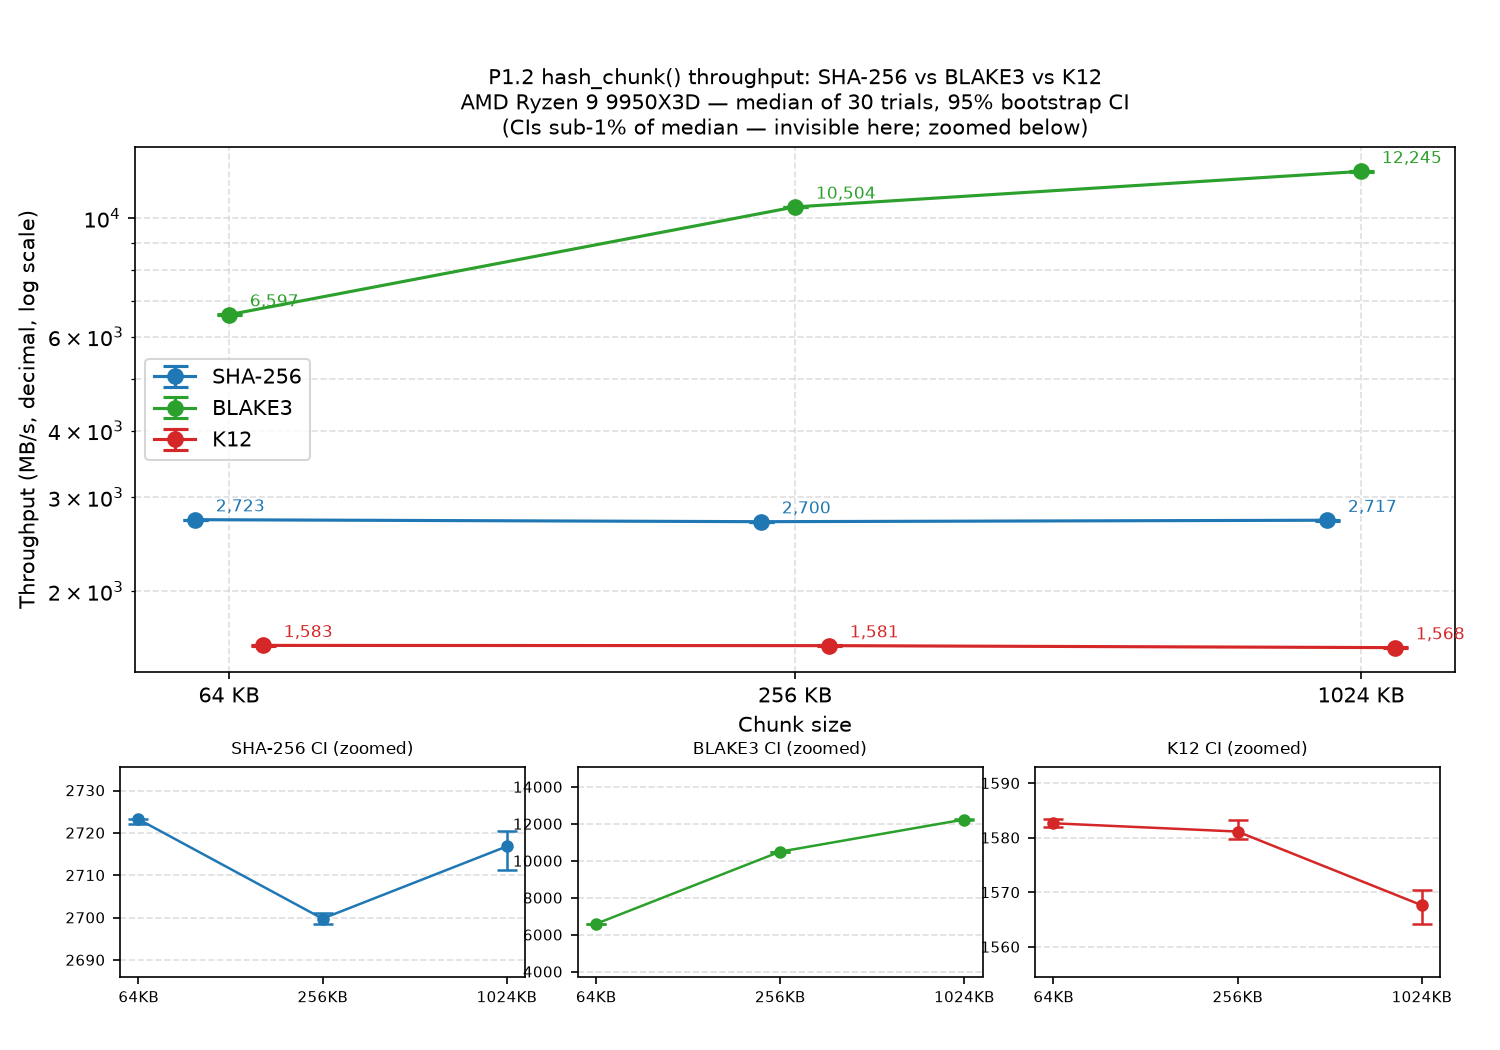
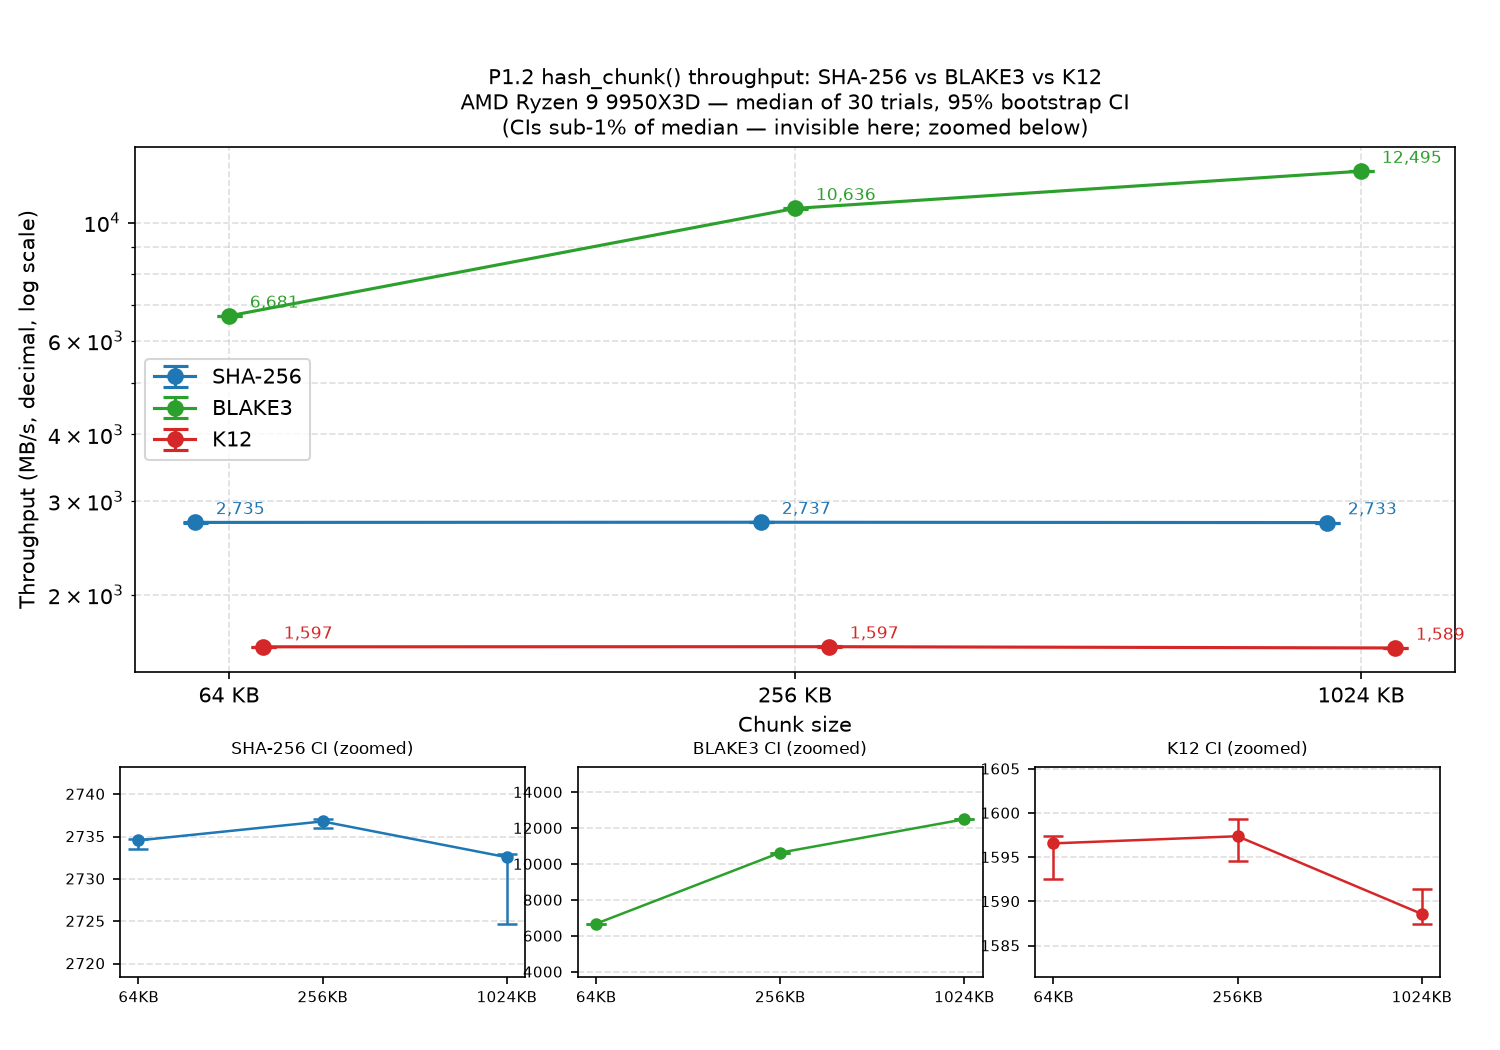
Capture raw per-trial hash-bench samples and plot min/max/IQR spread
The harness now writes a raw-trials sidecar CSV alongside the
spec-mandated summary CSV, enabling a separate plot
(plot_hash_throughput_spread.png) showing actual min/max and IQR
spread per algorithm/chunk-size cell, distinct from the bootstrap CI
on the median shown in the main plot. Rerunning the harness to capture
this also refreshed the summary CSV/plot with new measurements;
explanatory note updated accordingly.

diff --git a/crates/clawhdf5-format/examples/hash_bench_harness.rs b/crates/clawhdf5-format/examples/hash_bench_harness.rs
@@ -174,6 +174,10 @@ struct Row {
     throughput_mbs: f64,
     ci95_low: f64,
     ci95_high: f64,
+    /// All 30 measured per-trial throughputs, kept alongside the summary
+    /// row so callers can also report raw spread (min/max/IQR) — not part
+    /// of the spec-mandated CSV columns, written to a separate sidecar file.
+    raw_samples: Vec<f64>,
 }
 
 fn bench_alg_size(alg: HashAlg, alg_name: &'static str, chunk_kb: usize, seed: u64) -> Row {
@@ -201,6 +205,7 @@ fn bench_alg_size(alg: HashAlg, alg_name: &'static str, chunk_kb: usize, seed: u
         throughput_mbs: med,
         ci95_low: lo,
         ci95_high: hi,
+        raw_samples: throughputs_mbs,
     }
 }
 
@@ -259,9 +264,30 @@ fn main() -> Result<(), Box<dyn std::error::Error>> {
     }
     fs::write(&out_path, csv)?;
 
+    let raw_out_path = format!("{results_dir}/hash-bench-raw-trials-{host}.csv");
+    let mut raw_csv = format!(
+        "# hostname={host} cpu_model=\"{cpu}\" ram_gb={:.1} date={}\n",
+        ram_gb(),
+        now_utc_iso()
+    );
+    raw_csv.push_str("alg,chunk_size_kb,trial,throughput_mbs\n");
+    for r in &rows {
+        for (i, sample) in r.raw_samples.iter().enumerate() {
+            raw_csv.push_str(&format!(
+                "{},{},{},{}\n",
+                csv_field(r.alg),
+                r.chunk_size_kb,
+                i,
+                sample,
+            ));
+        }
+    }
+    fs::write(&raw_out_path, raw_csv)?;
+
     println!();
     println!("Wrote {} rows to {out_path}", rows.len());
-    println!("Note: benches/results/ is gitignored — `git add -f` this file if you intend to commit it as a P1.2 artifact.");
+    println!("Wrote raw per-trial samples to {raw_out_path}");
+    println!("Note: benches/results/ is gitignored — `git add -f` these files if you intend to commit them as P1.2 artifacts.");
 
     Ok(())
 }

diff --git a/crates/clawhdf5-format/benches/results/hash-bench-explanatory-note-localhost.localdomain.md b/crates/clawhdf5-format/benches/results/hash-bench-explanatory-note-localhost.localdomain.md
@@ -1,7 +1,8 @@
 # P1.2 Hash Algorithm Benchmark — Explanatory Note
 
-This note accompanies `hash-bench-localhost.localdomain.csv`, per the S2-D2
-spec's "Benchmark validity and interpretation" requirement (p.52): every
+This note accompanies `hash-bench-localhost.localdomain.csv` and
+`hash-bench-raw-trials-localhost.localdomain.csv`, per the S2-D2 spec's
+"Benchmark validity and interpretation" requirement (p.52): every
 benchmark artifact needs a reproducible explanatory note covering exact
 reproduction steps, hardware, what is measured, how to read the results,
 and a root-cause explanation of any notable trend or anomaly.
@@ -49,30 +50,48 @@ critical path, not a standalone copy of the algorithm.
 
 ## How to read the plot
 
-`plot_hash_throughput.png`: one main log-scale point+errorbar plot
-comparing all three algorithms across chunk sizes, plus three small
-zoomed-in inset panels below it (one per algorithm, each individually
-y-scaled) — the main plot's 95% CIs are too narrow to see at that shared
-scale, so each inset re-plots its algorithm's own CI on a tight axis
-range where the whiskers are actually visible.
+- `plot_hash_throughput.png`: one main log-scale point+errorbar plot
+  comparing all three algorithms across chunk sizes, plus three small
+  zoomed-in inset panels below it (one per algorithm, each individually
+  y-scaled) — the main plot's 95% CIs are too narrow to see at that shared
+  scale, so each inset re-plots its algorithm's own CI on a tight axis
+  range where the whiskers are actually visible.
+- `plot_hash_throughput_spread.png`: a separate plot, one panel per
+  algorithm, showing the **raw spread of the 30 measured trials** rather
+  than the bootstrap CI on the median: a thin whisker for min/max and a
+  thick band for the IQR (25th-75th percentile), with the median marked
+  as a dot. This is a different statistic than the CI plot above — see
+  "How to read the CSV" below for the distinction — and is generally much
+  wider, since it reflects trial-to-trial variability directly rather than
+  uncertainty in the median estimate.
 
 ## How to read the CSV
 
-Each row is one (algorithm, chunk size) cell: `throughput_mbs` is the
-**median of the 30 measured trials**, with `ci95_low`/`ci95_high` from a
-**95% bootstrap confidence interval** (2000 resamples) — never a bare mean,
-per the statistical protocol.
+`hash-bench-localhost.localdomain.csv` (the spec-mandated artifact): each
+row is one (algorithm, chunk size) cell, `throughput_mbs` is the **median
+of the 30 measured trials**, with `ci95_low`/`ci95_high` from a **95%
+bootstrap confidence interval** (2000 resamples) — never a bare mean, per
+the statistical protocol. This CI describes how much the *median* would
+plausibly vary if the 30-trial experiment were rerun, not how spread out
+the raw trials themselves were.
+
+`hash-bench-raw-trials-localhost.localdomain.csv` (supplementary, not a
+spec-mandated column set): one row per individual trial — `alg,
+chunk_size_kb, trial, throughput_mbs` — the same 30 raw measurements per
+cell that feed into the summary CSV's median/CI, kept around so the raw
+spread (min/max, IQR) can also be reported, e.g. in
+`plot_hash_throughput_spread.png`.
 
 ## Expected trends and whether the data matches
 
-- **BLAKE3 throughput increases with chunk size** (6.6 GB/s at 64 KB → 10.5
-  GB/s at 256 KB → 12.2 GB/s at 1 MB). Matches expectation: BLAKE3 processes
+- **BLAKE3 throughput increases with chunk size** (6.7 GB/s at 64 KB → 10.6
+  GB/s at 256 KB → 12.5 GB/s at 1 MB). Matches expectation: BLAKE3 processes
   input in parallel 1 KB-leaf lanes internally (SIMD-width dependent), so
   larger inputs better amortize per-call setup cost and expose more
   parallelism — consistent with RQ4's framing of BLAKE3 as the
   parallelism-oriented design.
 - **SHA-256 and K12 throughput are flat across chunk sizes** (SHA-256:
-  ~2.70–2.72 GB/s; K12: ~1.57–1.58 GB/s). Matches expectation for both:
+  ~2.73–2.74 GB/s; K12: ~1.59–1.60 GB/s). Matches expectation for both:
   neither this `sha2` usage nor `k12`'s sponge construction exploits
   cross-chunk-size parallelism the way BLAKE3's tree does, so per-byte cost
   is roughly constant once warmed up.
@@ -80,7 +99,7 @@ per the statistical protocol.
 ## Anomaly: SHA-256 is faster than K12, despite K12 being the
 "very fast" candidate
 
-At every chunk size, SHA-256 (~2.7 GB/s) outperforms K12 (~1.58 GB/s) by
+At every chunk size, SHA-256 (~2.7 GB/s) outperforms K12 (~1.6 GB/s) by
 ~1.7x — the opposite of §5.3's framing of K12 as a faster SHA-3-family
 alternative to SHA-256 for throughput-bound deployments.
 
@@ -122,10 +141,14 @@ hardware acceleration when available.)
 
 ## Observation: CI width (as % of median) grows with chunk size for SHA-256 and K12
 
-Within the committed 64/256/1024 KB cells, SHA-256's CI width goes
-0.04% → 0.15% → 0.71% of the median, and K12's goes ~0.05% → 0.14% → 0.31%
-— both widening as chunk size increases, even though the underlying
-algorithms are unchanged.
+Within the committed 64/256/1024 KB cells (most recent run), SHA-256's CI
+width is ~0.04% → 0.04% → 0.30% of the median, and K12's is ~0.31% →
+0.30% → 0.25%. The exact figures are noisy run-to-run (rerunning the
+harness for the spread plot above shifted them somewhat from an earlier
+run, where SHA-256 went 0.04% → 0.15% → 0.71%), but the broader pattern —
+SHA-256 and K12 having visibly wider CIs at 1024 KB than at 64 KB in most
+runs, all still comfortably sub-1% — motivated checking whether this is a
+real, chunk-size-driven effect rather than noise.
 
 To see the actual shape of this trend (not just three points) and check
 for a sharp cache-capacity-wall effect, `CHUNK_SIZES_KB` was temporarily